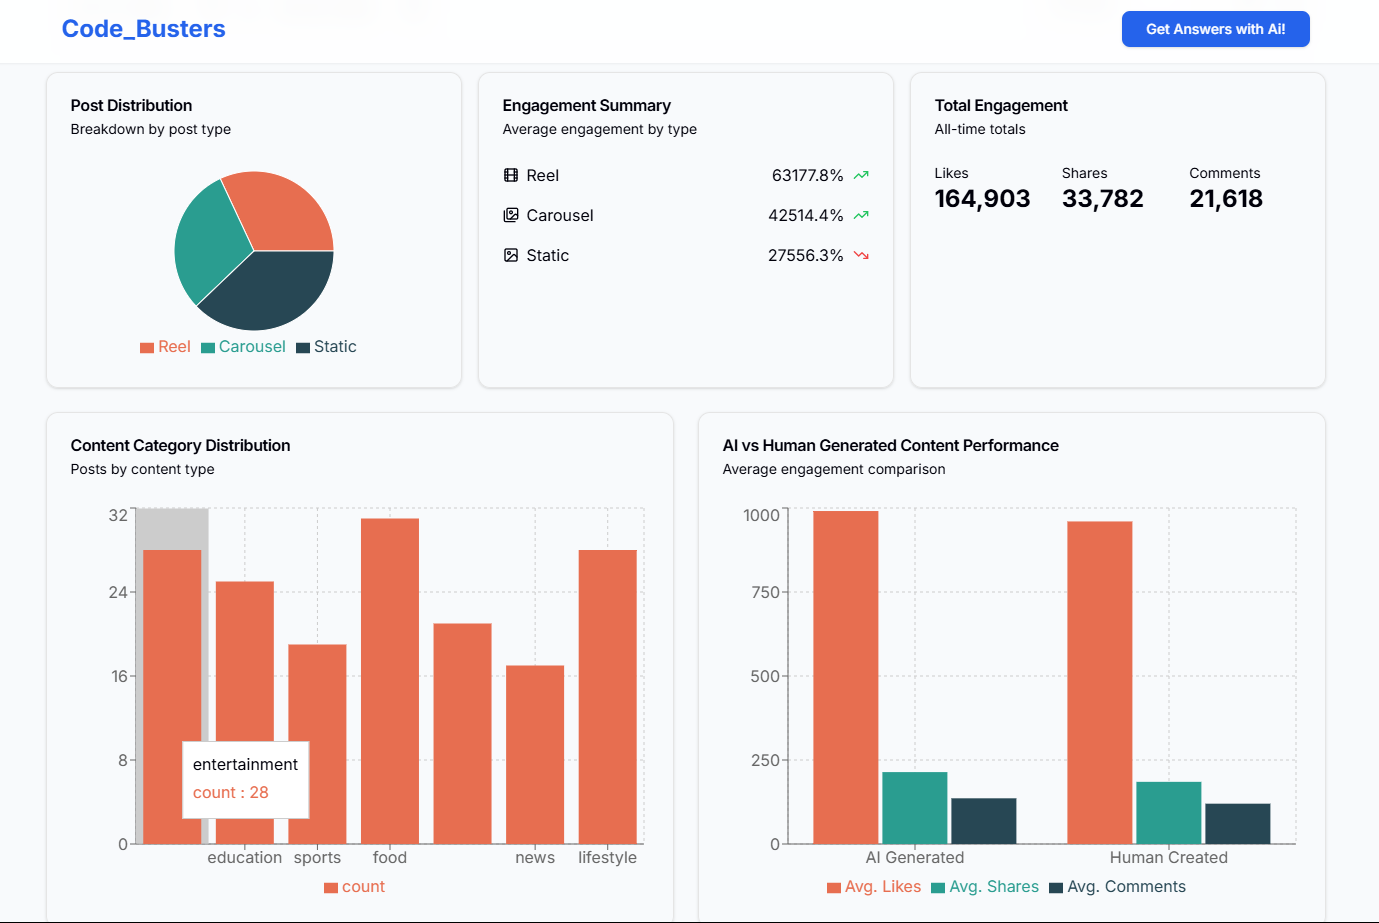
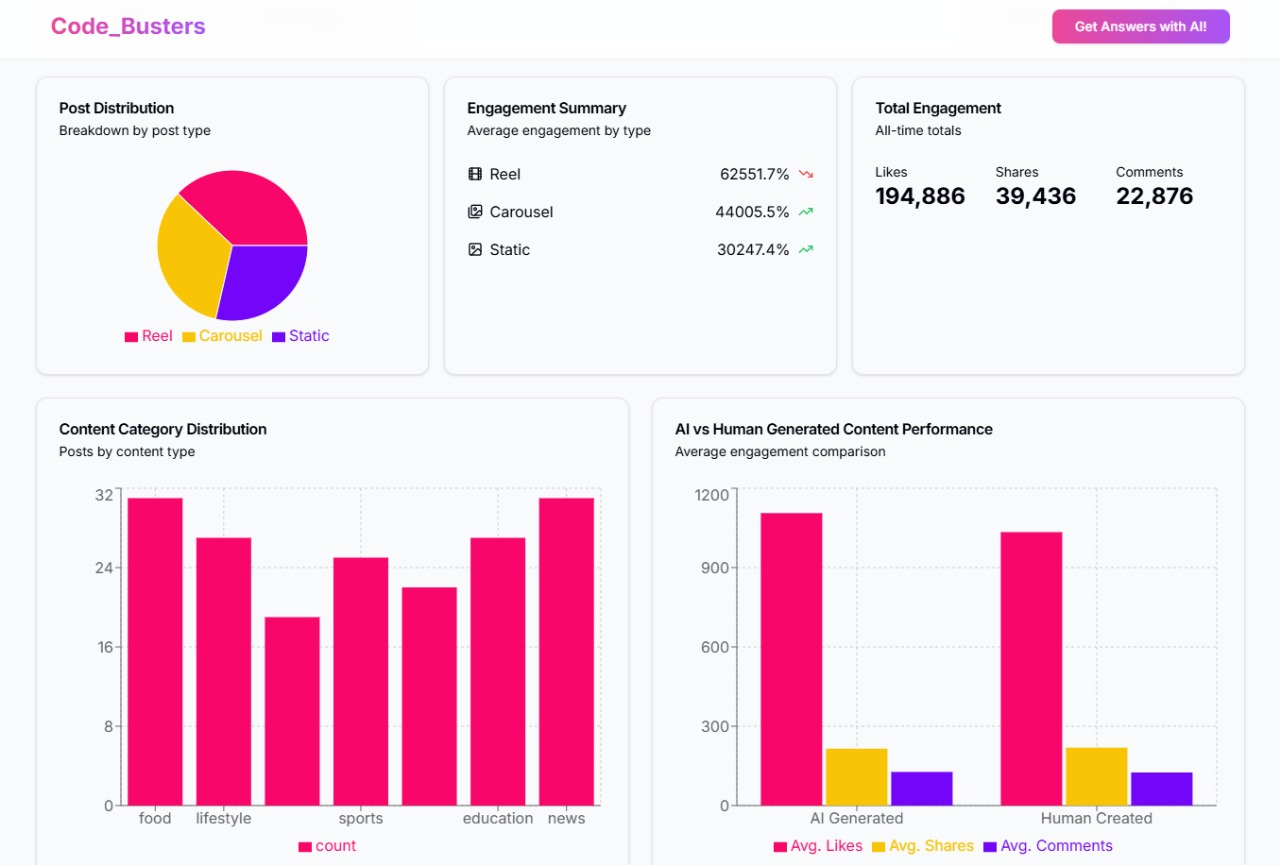
Fix_UI

diff --git a/client/src/components/home/Hero.jsx b/client/src/components/home/Hero.jsx
@@ -8,11 +8,11 @@ const Hero = () => {
   return (
     <section
       id="hero"
-      className="min-h-screen relative bg-gradient-to-br from-primary-50 via-white to-primary-50">
+      className="min-h-screen relative bg-gradient-to-br from-pink-50 via-white to-purple-50">
       {/* Background decoration */}
       <div className="absolute inset-0 overflow-hidden">
-        <div className="absolute -top-1/2 -right-1/2 w-full h-full bg-primary-100 rounded-full opacity-20 blur-3xl"></div>
-        <div className="absolute -bottom-1/2 -left-1/2 w-full h-full bg-primary-100 rounded-full opacity-20 blur-3xl"></div>
+        <div className="absolute -top-1/2 -right-1/2 w-full h-full bg-gradient-to-br from-pink-100 to-purple-100 rounded-full opacity-20 blur-3xl"></div>
+        <div className="absolute -bottom-1/2 -left-1/2 w-full h-full bg-gradient-to-tr from-yellow-100 to-pink-100 rounded-full opacity-20 blur-3xl"></div>
       </div>
 
       <div className="relative max-w-7xl mx-auto min-h-screen flex items-center px-4">
@@ -22,35 +22,28 @@ const Hero = () => {
             initial={{ opacity: 0, x: -20 }}
             animate={{ opacity: 1, x: 0 }}
             transition={{ duration: 0.8 }}>
-            {/* <div className="inline-flex items-center gap-2 bg-primary-100 text-primary-700 px-4 py-2 rounded-full text-sm font-medium">
-              <Sparkles size={16} />
-              Powered by AI
-            </div> */}
-
-            <h1 className="text-5xl lg:text-7xl font-bold text-gray-900 leading-tight">
-            Enhance Your <br />
-              <span className="text-primary-600">Social Media Impact</span>
+            <h1 className="text-5xl font-bold leading-tight text-gray-900">
+              Enhance Your <br />
+              <span className="text-transparent bg-clip-text bg-gradient-to-r from-pink-500 to-purple-500">
+                Social Media Impact
+              </span>
             </h1>
-
-            <p className="text-xl text-gray-600 max-w-xl">
-            Leverage AI-powered analytics to gain actionable insights, optimize social media engagement, and drive organic audience growth.
+            <p className="text-xl text-gray-600 max-w-lg">
+              Leverage AI-powered analytics to gain actionable insights, optimize social media engagement, and drive organic audience growth.
             </p>
-
-            <div className="flex flex-col sm:flex-row gap-4">
+            <div className="flex items-center gap-4">
               <Link
                 to="/dashboard"
-                className="inline-flex items-center justify-center gap-2 bg-primary-600 text-white px-8 py-4 rounded-lg hover:bg-primary-700 transition-colors duration-300 shadow-lg hover:shadow-xl">
-                Explore Demo
-                <ArrowRight size={20} />
+                className="inline-flex items-center justify-center gap-2 bg-gradient-to-r from-pink-500 to-purple-500 text-white px-8 py-4 rounded-lg hover:from-pink-600 hover:to-purple-600 transition-colors">
+                Get Started
+                <ArrowRight size={18} />
               </Link>
-
               <Link
-                to="https://youtu.be/TGx_P_ZqODM?si=xarEUl8PBNHYYbXy"
-                className="inline-flex items-center justify-center gap-2 bg-white text-primary-600 px-8 py-4 rounded-lg hover:bg-primary-50 transition-colors duration-300 border border-primary-200">
+                to="https://youtu.be/TGx_P_ZqODM"
+                className="inline-flex items-center justify-center gap-2 bg-white text-gray-600 px-8 py-4 rounded-lg hover:bg-gray-50 transition-colors border border-gray-200">
                 Demo Video
               </Link>
             </div>
-
           </motion.div>
 
           <motion.div
@@ -58,7 +51,7 @@ const Hero = () => {
             animate={{ opacity: 1, x: 0 }}
             transition={{ duration: 0.8, delay: 0.2 }}
             className="relative">
-            <div className="absolute inset-0 bg-gradient-to-br from-primary-500 to-primary-600 rounded-2xl blur-2xl opacity-20 transform rotate-3"></div>
+            <div className="absolute inset-0 bg-gradient-to-br from-pink-500 to-purple-500 rounded-2xl blur-2xl opacity-20 transform rotate-3"></div>
             <img
               src="/hero.png"
               alt="Analytics Dashboard"

diff --git a/client/src/pages/Dashboard.jsx b/client/src/pages/Dashboard.jsx
@@ -432,7 +432,7 @@ const ContentDistributionChart = ({ data }) => {
             <YAxis />
             <Tooltip />
             <Legend />
-            <Bar dataKey="count" fill="hsl(var(--chart-1))" />
+            <Bar dataKey="count" fill="hsl(335, 95%, 50%)" />
           </BarChart>
         </ResponsiveContainer>
       </CardContent>
@@ -455,9 +455,9 @@ const AiGeneratedComparison = ({ data }) => {
             <YAxis />
             <Tooltip />
             <Legend />
-            <Bar dataKey="likes" fill="hsl(var(--chart-1))" name="Avg. Likes" />
-            <Bar dataKey="shares" fill="hsl(var(--chart-2))" name="Avg. Shares" />
-            <Bar dataKey="comments" fill="hsl(var(--chart-3))" name="Avg. Comments" />
+            <Bar dataKey="likes" fill="hsl(335, 95%, 50%)" name="Avg. Likes" />
+            <Bar dataKey="shares" fill="hsl(47, 95%, 50%)" name="Avg. Shares" />
+            <Bar dataKey="comments" fill="hsl(267, 95%, 50%)" name="Avg. Comments"/>
           </BarChart>
         </ResponsiveContainer>
       </CardContent>
@@ -656,16 +656,18 @@ const Dashboard = () => {
         }`}>
         <div className="max-w-7xl mx-auto px-4 py-4">
           <nav className="flex items-center justify-between">
-            <Link
+          <Link
               to={"/"}
-              className="text-2xl font-bold text-primary-600 cursor-pointer flex gap-4 justify-center items-center">
-              Code_Busters
+              className="text-2xl font-bold cursor-pointer flex gap-4 justify-center items-center">
+              <div className="bg-gradient-to-r from-pink-500 to-purple-500 bg-clip-text text-transparent">
+                Code_Busters
+              </div>
             </Link>
             <div className="hidden md:flex items-center gap-8">
               <Button
-                className="bg-primary-600 text-white px-6 py-2 rounded-lg hover:bg-primary-700 transition-colors flex items-center gap-2"
+                className="bg-gradient-to-r from-pink-500 to-purple-500 text-white px-6 py-2 rounded-lg hover:from-pink-600 hover:to-purple-600 transition-colors flex items-center gap-2"
                 onClick={handleAiButtonClick}>
-                Get Answers with Ai!
+                Get Answers with AI!
               </Button>
             </div>
           </nav>

diff --git a/client/src/pages/EnhancedChatClient.jsx b/client/src/pages/EnhancedChatClient.jsx
@@ -90,13 +90,13 @@ const EnhancedChatClient = ({ isExpanded, setIsExpanded }) => {
         <Button
           onClick={() => setIsExpanded(true)}
           size="lg"
-          className="rounded-full w-14 h-14 bg-blue-600 hover:bg-blue-700 shadow-lg hover:shadow-xl transition-all duration-300">
+          className="rounded-full w-14 h-14 bg-gradient-to-r from-pink-500 to-purple-500 shadow-lg hover:shadow-xl transition-all duration-300">
           <MessageCircle className="h-6 w-6 text-white" />
         </Button>
       ) : (
         <div className="relative">
           <Card className="w-[380px] shadow-2xl bg-white">
-            <CardHeader className="flex flex-row items-center justify-between space-y-0 pb-2 bg-blue-600 text-white rounded-t-lg">
+            <CardHeader className="flex flex-row items-center justify-between space-y-0 pb-2 bg-gradient-to-r from-pink-500 to-purple-500 text-white rounded-t-lg">
               <CardTitle className="text-lg font-semibold">
                 AI Assistant
               </CardTitle>
@@ -122,7 +122,7 @@ const EnhancedChatClient = ({ isExpanded, setIsExpanded }) => {
                       <div
                         className={`max-w-[80%] rounded-lg px-4 py-2 shadow-sm ${
                           message.type === "user"
-                            ? "bg-blue-600 text-white"
+                            ? "bg-gradient-to-r from-pink-500 to-purple-500 text-white"
                             : "bg-gray-100"
                         }`}>
                         <p className="text-sm">{message.text}</p>
@@ -157,7 +157,7 @@ const EnhancedChatClient = ({ isExpanded, setIsExpanded }) => {
                     onClick={sendMessage}
                     disabled={isLoading || !inputMessage.trim()}
                     size="icon"
-                    className="bg-blue-600 hover:bg-blue-700 transition-colors">
+                    className="bg-gradient-to-r from-pink-500 to-purple-500 hover:from-pink-600 hover:to-purple-600 transition-colors">
                     <Send className="h-4 w-4 text-white" />
                   </Button>
                 </div>

diff --git a/client/src/index.css b/client/src/index.css
@@ -10,24 +10,24 @@
     --card-foreground: 0 0% 3.9%;
     --popover: 0 0% 100%;
     --popover-foreground: 0 0% 3.9%;
-    --primary: 0 0% 9%;
+    --primary: 335 95% 50%;
     --primary-foreground: 0 0% 98%;
-    --secondary: 0 0% 96.1%;
+    --secondary: 47 95% 50%;
     --secondary-foreground: 0 0% 9%;
-    --muted: 0 0% 96.1%;
+    --muted: 335 20% 95%;
     --muted-foreground: 0 0% 45.1%;
-    --accent: 0 0% 96.1%;
-    --accent-foreground: 0 0% 9%;
+    --accent: 267 95% 50%;
+    --accent-foreground: 0 0% 98%;
     --destructive: 0 84.2% 60.2%;
     --destructive-foreground: 0 0% 98%;
-    --border: 0 0% 89.8%;
-    --input: 0 0% 89.8%;
-    --ring: 0 0% 3.9%;
-    --chart-1: 12 76% 61%;
-    --chart-2: 173 58% 39%;
-    --chart-3: 197 37% 24%;
-    --chart-4: 43 74% 66%;
-    --chart-5: 27 87% 67%;
+    --border: 335 10% 90%;
+    --input: 335 10% 90%;
+    --ring: 335 95% 50%;
+    --chart-1: 335 95% 50%;
+    --chart-2: 47 95% 50%;
+    --chart-3: 267 95% 50%;
+    --chart-4: 326 100% 60%;
+    --chart-5: 198 95% 50%;
     --radius: 0.5rem;
   }
   .dark {
@@ -69,6 +69,6 @@
     @apply border-border;
   }
   body {
-    @apply bg-background text-foreground; /* `text-foreground` now resolves correctly */
+    @apply bg-background text-foreground; /* text-foreground now resolves correctly */
   }
 }

diff --git a/client/src/components/layout/Header.jsx b/client/src/components/layout/Header.jsx
@@ -39,8 +39,10 @@ const Header = () => {
         <nav className="flex items-center justify-between">
           <div
             onClick={() => scrollToSection("hero")}
-            className="text-2xl font-bold text-primary-600 cursor-pointer flex gap-4 justify-center items-center">
-            <div>Code_Busters</div>
+            className="text-2xl font-bold cursor-pointer flex gap-4 justify-center items-center">
+            <div className="bg-gradient-to-r from-pink-500 to-purple-500 bg-clip-text text-transparent">
+              Code_Busters
+            </div>
           </div>
 
           {/* Desktop Menu */}
@@ -57,7 +59,7 @@ const Header = () => {
             </button>
             <Link
               to="/dashboard"
-              className="bg-primary-600 text-white px-6 py-2 rounded-lg hover:bg-primary-700 transition-colors flex items-center gap-2">
+              className="bg-gradient-to-r from-pink-500 to-purple-500 text-white px-6 py-2 rounded-lg hover:from-pink-600 hover:to-purple-600 transition-colors flex items-center gap-2">
               Get Started
               <ArrowRight size={18} />
             </Link>

diff --git a/client/index.html b/client/index.html
@@ -3,10 +3,10 @@
   <head>
     <meta charset="UTF-8" />
     <meta name="viewport" content="width=device-width, initial-scale=1.0" />
-    <title> Insightly - Social Media Analytics Powered with Gen-AI </title>
+    <title> Code_Busters -  Gen-AI Social Media Analytics </title>
     <meta
       name="title"
-      content="Insightly - Social Media Analytics Powered with Gen-AI" />
+      content="Code_Busters -  Gen-AI Social Media Analytics" />
     <meta
       name="description"
       content="Unlock powerful insights with AI-driven analytics to boost your social media engagement and grow your audience organically." />
@@ -15,7 +15,7 @@
     <!-- Favicon -->
     <link
       rel="icon"
-      href="https://socialanalytics-client.onrender.com/favicon.png"
+      href="/title_logo.png"
       type="image/png" />
     <link
       rel="apple-touch-icon"
@@ -75,5 +75,5 @@
   <body>
     <div id="root"></div>
     <script type="module" src="/src/main.jsx"></script>
-  </body>
+  </body>
 </html>

diff --git a/client/src/components/home/TeamSection.jsx b/client/src/components/home/TeamSection.jsx
@@ -79,7 +79,9 @@ const TeamSection = () => {
               <h3 className="text-xl font-bold text-gray-900 mb-2">
                 {member.name}
               </h3>
-              <p className="text-primary-600 font-medium mb-3">{member.role}</p>
+              <p className="bg-gradient-to-r from-pink-500 to-purple-500 bg-clip-text text-transparent font-medium mb-3">
+                {member.role}
+              </p>
               <div className="flex items-center justify-center gap-2 text-gray-600 mb-4">
                 <GraduationCap size={18} className="text-primary-500" />
                 <span className="text-sm">
@@ -110,4 +112,4 @@ const TeamSection = () => {
   );
 };
 
-export default TeamSection;
+export default TeamSection;

diff --git a/client/src/components/home/Features.jsx b/client/src/components/home/Features.jsx
@@ -69,7 +69,7 @@ const Features = () => {
               transition={{ delay: index * 0.1 }}
               className="bg-white p-8 rounded-xl border border-gray-100 hover:border-primary-200 shadow-sm hover:shadow-xl transition-all duration-300"
             >
-              <div className="w-14 h-14 bg-primary-100 rounded-xl flex items-center justify-center text-primary-600 mb-6">
+              <div className="w-14 h-14 bg-gradient-to-r from-pink-500 to-purple-500 rounded-xl flex items-center justify-center text-white mb-6">
                 {feature.icon}
               </div>
               <h3 className="text-xl font-bold text-gray-900 mb-3">
